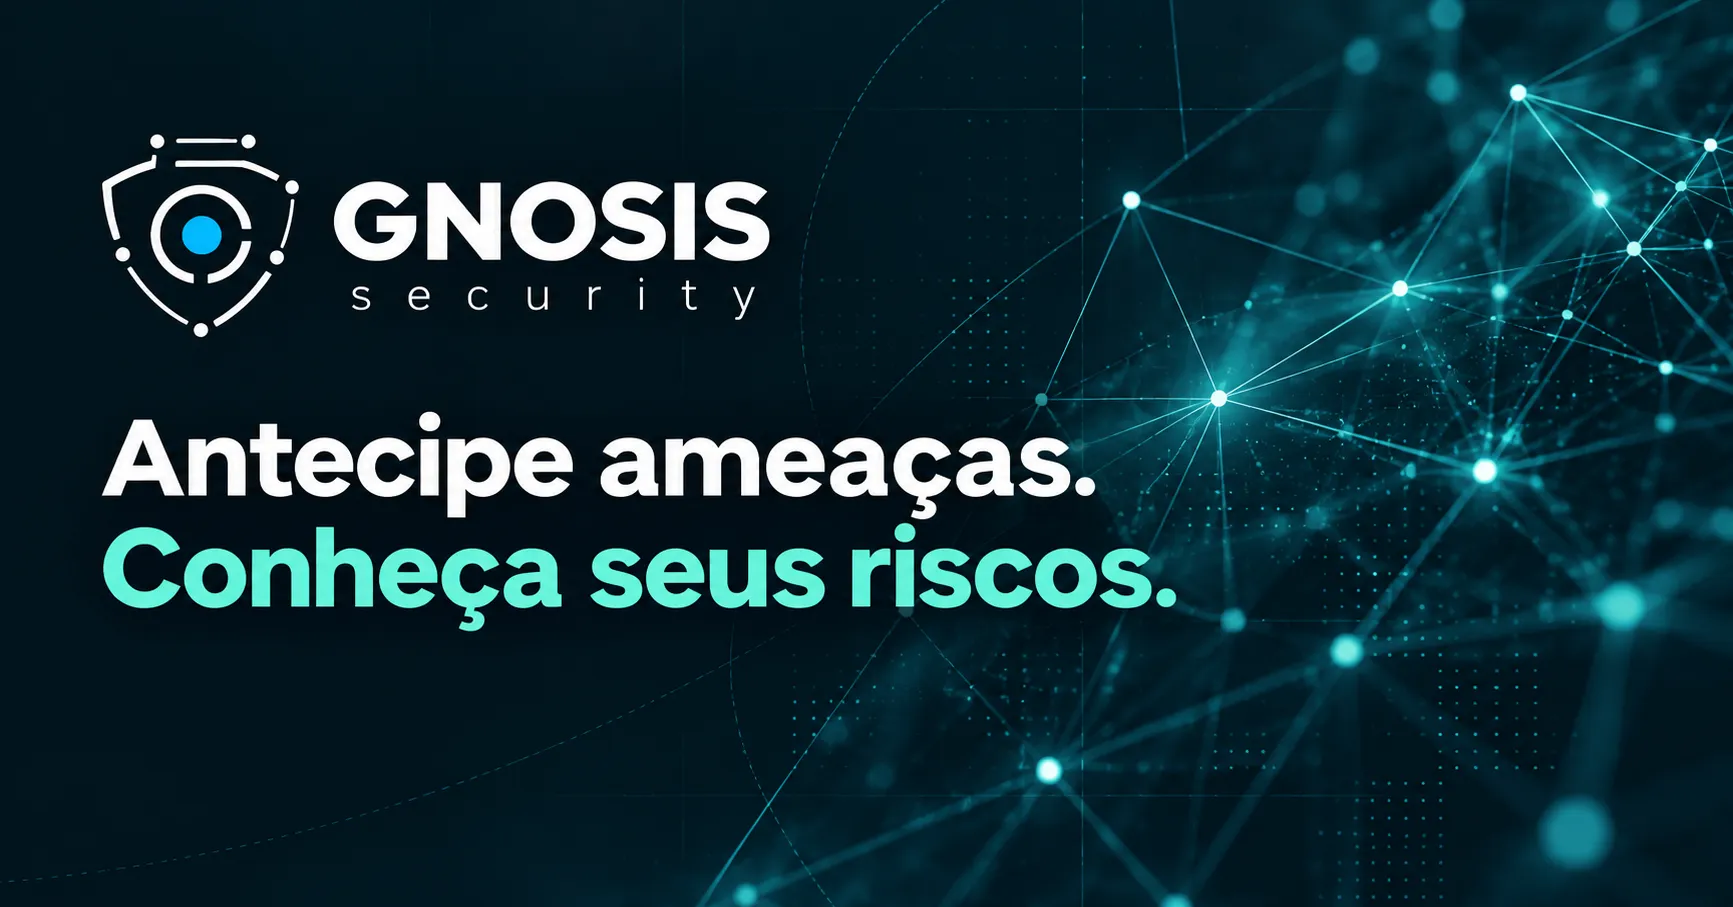
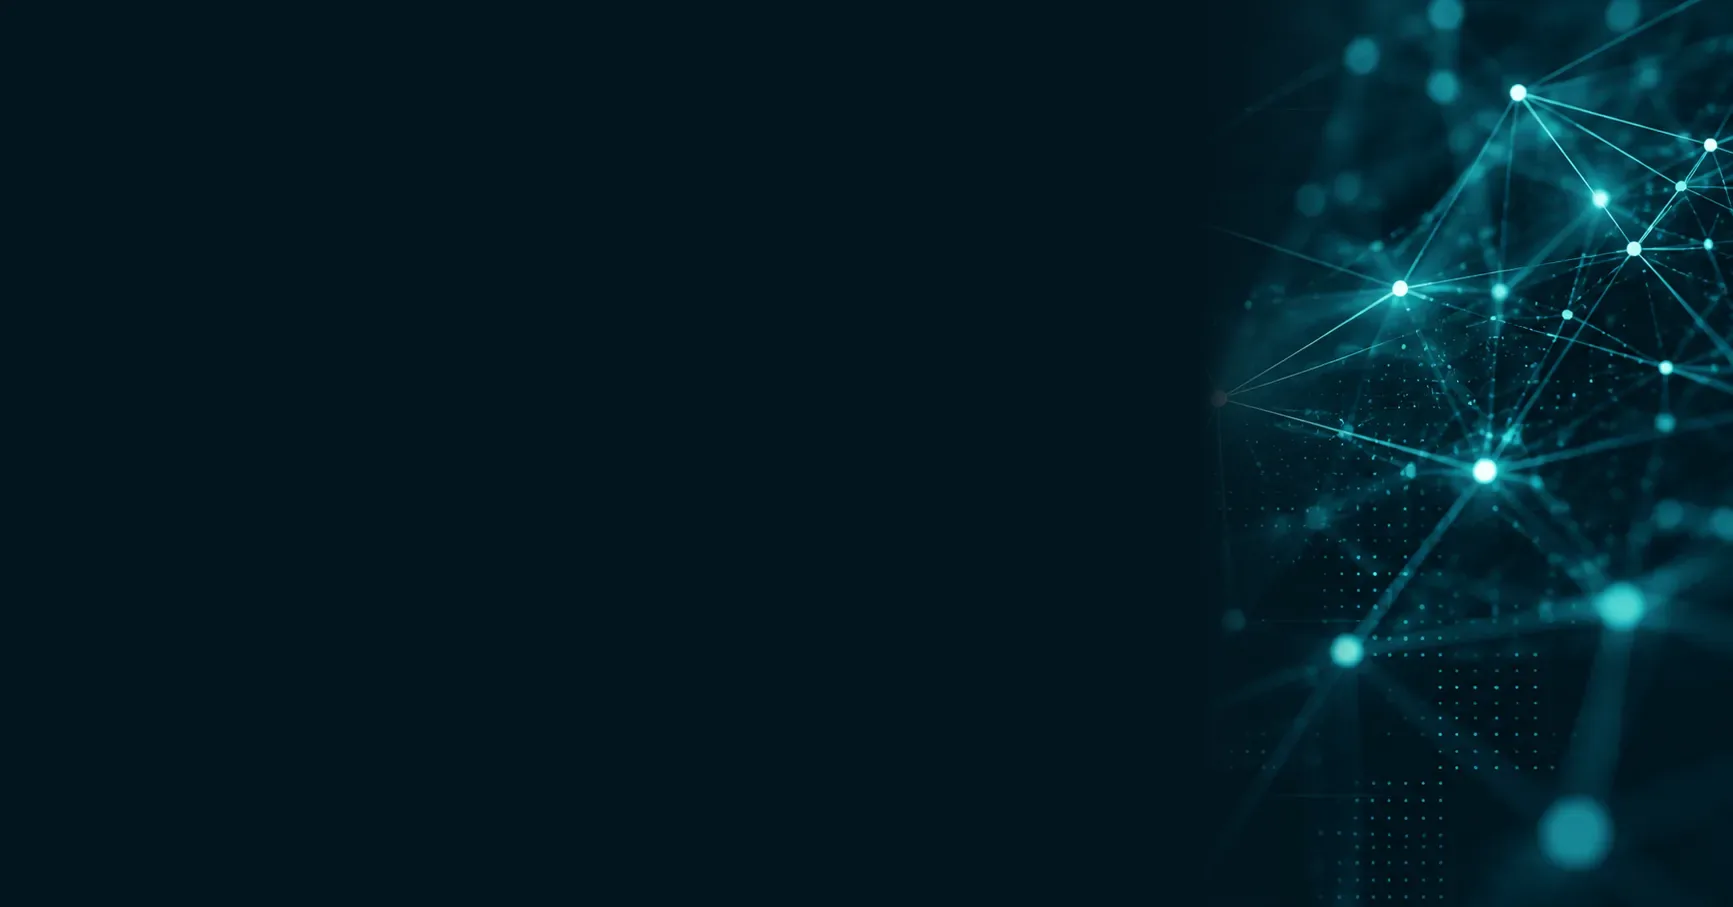
Hero: remove texto fantasma da imagem de fundo
A imagem de fundo era um banner antigo com o logo e a frase gravados;
ampliada e escurecida pelo CSS, as pontas das palavras ("as.", "os.")
vazavam atrás do título. Pintei a área do texto com a cor de fundo,
mantendo a rede à direita (e o arquivo caiu de 83 KB para 30 KB).

Claude-Session: https://claude.ai/code/session_01PHSdVVKbg5jMF6tASAd2Ky

diff --git a/assets/site.css b/assets/site.css
@@ -389,7 +389,7 @@ p {
   width: min(70vw, 1180px);
   pointer-events: none;
   opacity: 0.9;
-  background: url("hero-network.webp") right center / auto 172% no-repeat;
+  background: url("hero-network.webp?v=2") right center / auto 172% no-repeat;
   -webkit-mask-image: linear-gradient(90deg, transparent 0%, rgba(0, 0, 0, 0.36) 18%, #000 42%);
   mask-image: linear-gradient(90deg, transparent 0%, rgba(0, 0, 0, 0.36) 18%, #000 42%);
 }

diff --git a/index.html b/index.html
@@ -27,7 +27,7 @@
   <link rel="icon" href="favicon.svg?v=2" type="image/svg+xml">
   <link rel="icon" href="favicon-32.png?v=2" type="image/png" sizes="32x32">
   <link rel="apple-touch-icon" href="apple-touch-icon.png?v=2">
-  <link rel="stylesheet" href="assets/site.css?v=49">
+  <link rel="stylesheet" href="assets/site.css?v=50">
   <script type="application/ld+json">
     {
       "@context": "https://schema.org",

diff --git a/privacidade.html b/privacidade.html
@@ -13,7 +13,7 @@
   <link rel="icon" href="favicon.svg?v=2" type="image/svg+xml">
   <link rel="icon" href="favicon-32.png?v=2" type="image/png" sizes="32x32">
   <link rel="apple-touch-icon" href="apple-touch-icon.png?v=2">
-  <link rel="stylesheet" href="assets/site.css?v=49">
+  <link rel="stylesheet" href="assets/site.css?v=50">
 </head>
 <body class="legal-page">
   <header class="site-header is-scrolled">
